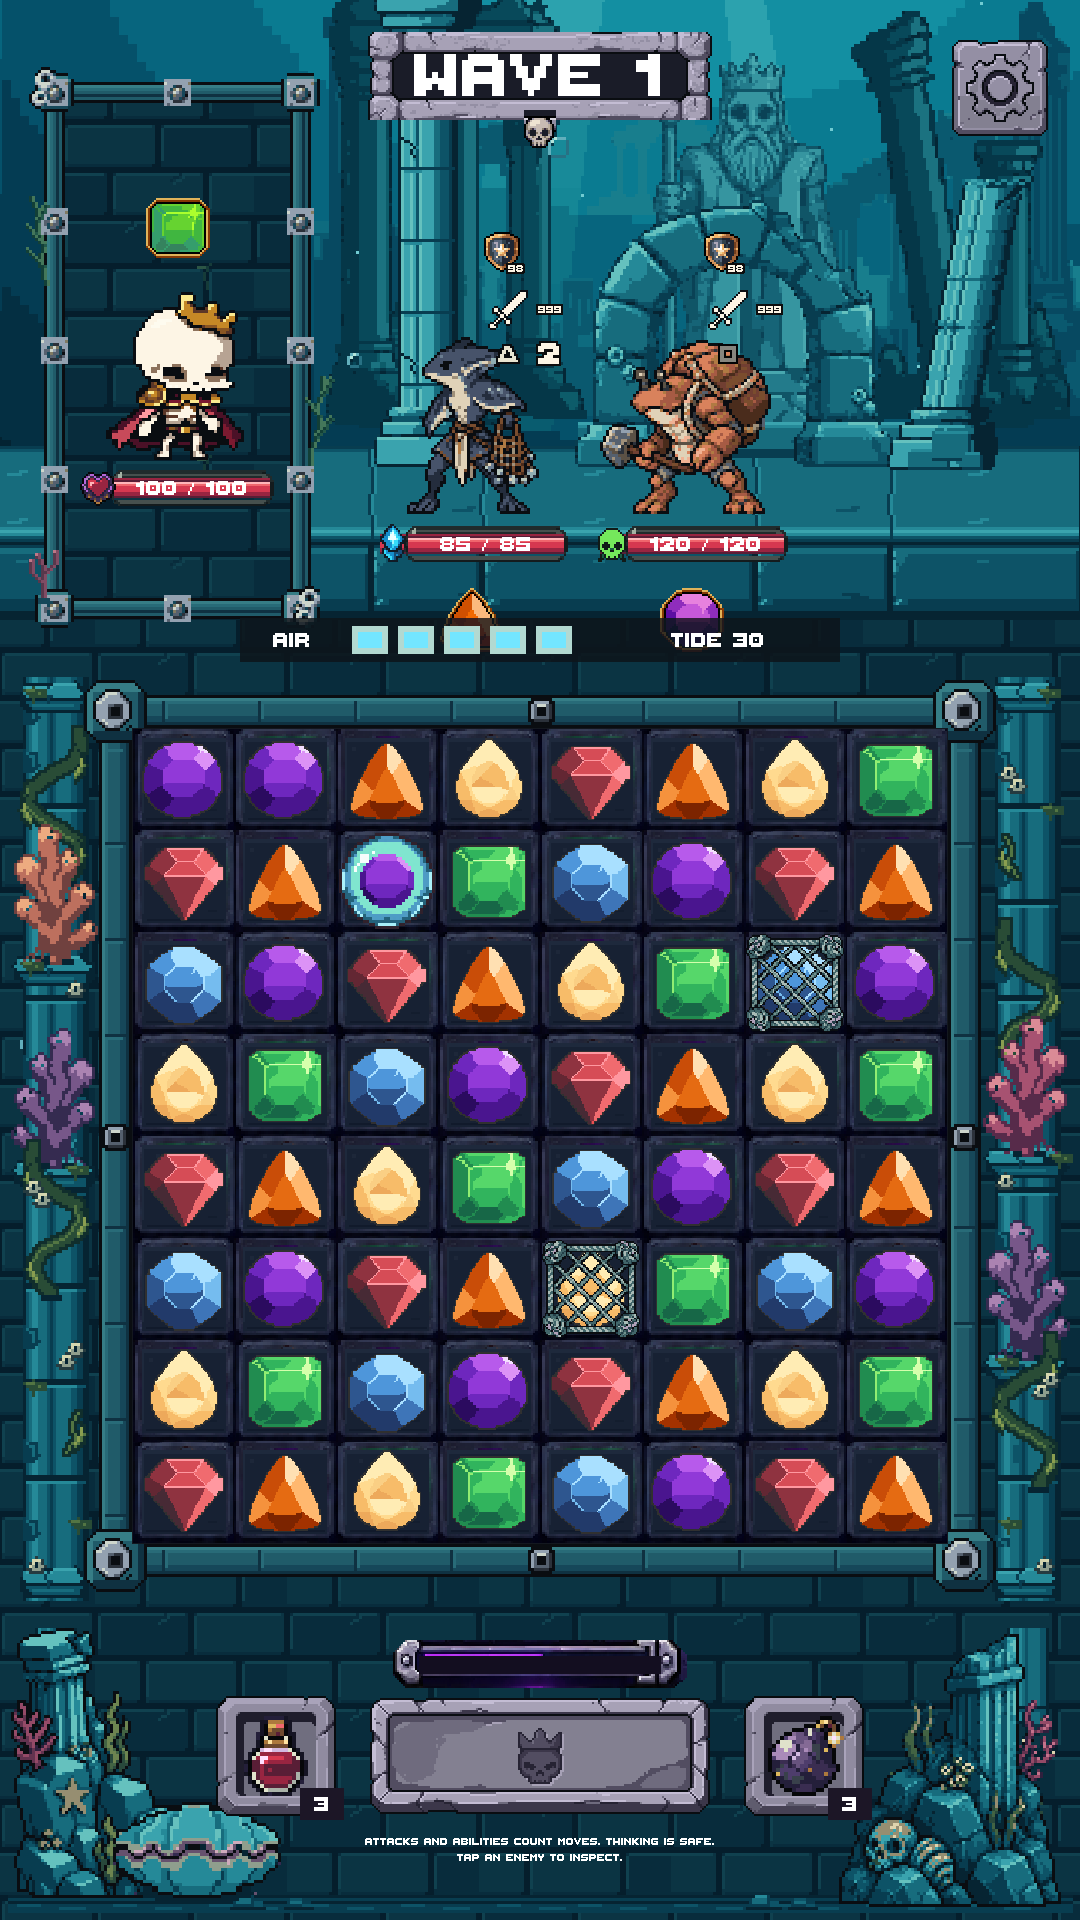
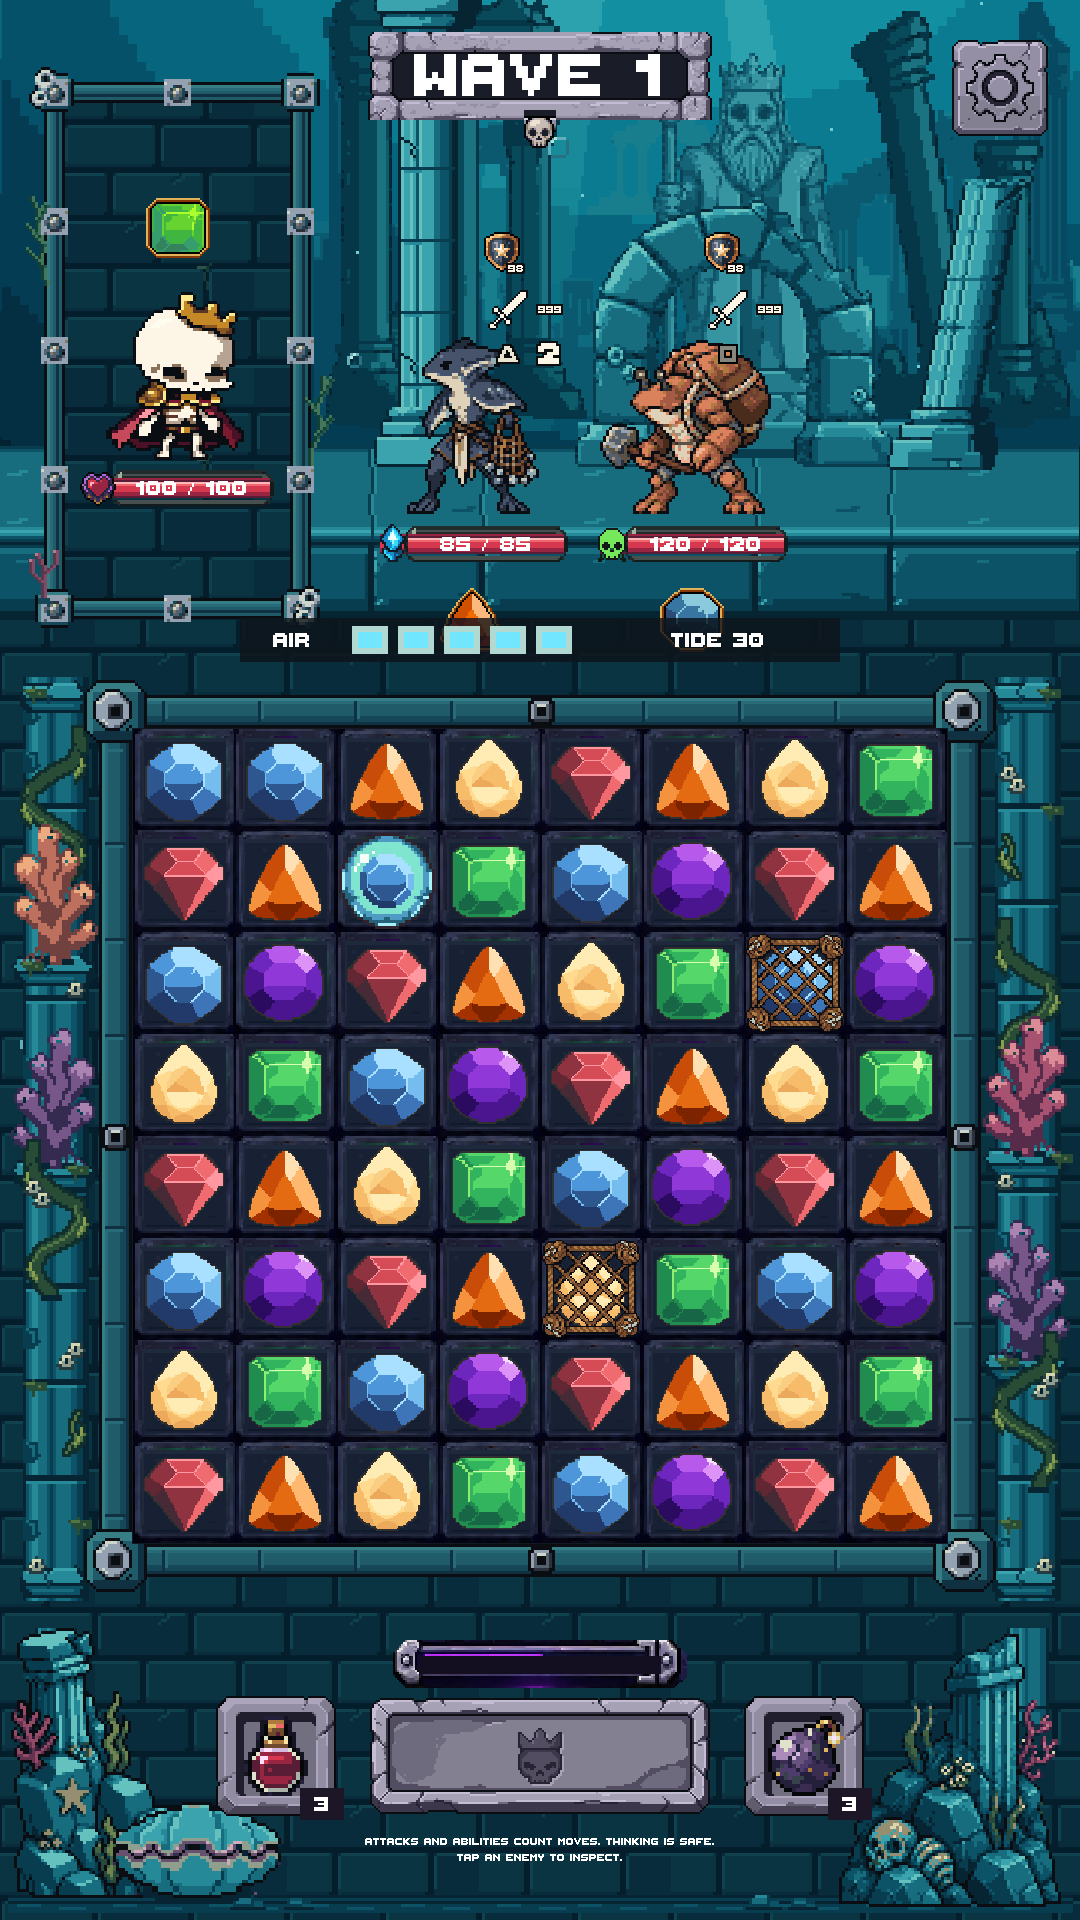
Match Marine Net rope colors to Reef Netweaver

diff --git a/ArtSource/ApprovedEnemyRevisions/FlameAndFullTileNet/Review.html b/ArtSource/ApprovedEnemyRevisions/FlameAndFullTileNet/Review.html
@@ -13,7 +13,7 @@ button,select{padding:9px 14px;background:#2b3950;color:white;border:1px solid #
 @media(max-width:780px){main{padding:16px}.grid{grid-template-columns:1fr}.stage{width:128px;height:128px}}
 </style><main>
 <div class="badge">DUNGEON MATCHER · REVIEW CANDIDATE · NOT MERGED</div>
-<h1>Moving flame. Heavier net.</h1><p>The approved hearth stays intact. The net covers its cell for its entire lifetime.</p>
+<h1>Moving flame. Heavier net.</h1><p>The approved hearth stays intact. The full-cell net now matches the Reef Netweaver's held rope.</p>
 <div class="grid"><section><h2>Hearth Ember — flame only</h2><div class="samples">
 <div class="sample"><div class="stage"><img width="128" height="128" src="../PixelLab/HearthEmber.png"></div><p>Approved still · 4×</p></div>
 <div class="sample"><div class="stage"><img width="128" height="128" src="HearthFlame.gif"></div><p>Animated flame · 4×</p></div>
@@ -21,10 +21,11 @@ button,select{padding:9px 14px;background:#2b3950;color:white;border:1px solid #
 <p>8 native cels · 120 ms per cel · 7 colors · binary transparency.<br>Every stone pixel remains fixed. Pause freezes the flame; Reduced Motion restores the still.</p>
 <a href="HearthFlame.ase">LibreSprite source</a> · <a href="HearthFlame-strip.png">Native frame strip</a></section>
 <section><h2>Marine Net — full cell</h2><div class="samples">
-<div class="sample"><div class="stage"><img width="128" height="128" src="../PixelLab/MarineSnare.png"></div><p>Previous · same cell display size</p></div>
-<div class="sample"><div class="stage"><img width="128" height="128" src="MarineSnare.png"></div><p>Thicker ropes · same cell display size</p></div>
+<div class="sample"><div class="stage"><img width="128" height="128" src="NetRopeRecolor/Before.png"></div><p>Before recolor · 2×</p></div>
+<div class="sample"><div class="stage"><img width="128" height="128" src="MarineSnare.png"></div><p>Matched brown rope · 2×</p></div>
 <div class="sample"><img width="64" height="64" src="MarineSnare.png"><p>Native 64×64</p></div></div>
-<p>6 colors · binary transparency · one-pixel edge clearance. Diamond windows keep the gem visible. No expiry shrink; the existing three-move rule remains unchanged.</p>
+<div class="samples"><img width="128" height="104" src="NetRopeRecolor/ReefNetweaver-reference.png"><p>Reef Netweaver · unchanged native reference.<br>Exact brown rope and pale weight colors sampled from his held net.</p></div>
+<p>5 colors · binary transparency · one-pixel edge clearance. Exact same mesh and alpha mask. Diamond windows keep the gem visible. No expiry shrink; the existing three-move rule remains unchanged.</p>
 <a href="MarineSnare.ase">LibreSprite source</a> · <a href="MarineNet-raw-sheet.png">All raw PixelLab candidates</a></section></div>
 <div class="grid"><section><h2>Actual Unity Game — hearth</h2>
 <button id="play">Pause preview</button><img id="hearth" class="game" src="Preview/hearth-flame-00.png">
@@ -32,7 +33,7 @@ button,select{padding:9px 14px;background:#2b3950;color:white;border:1px solid #
 <section><h2>Actual Unity Game — net</h2><select id="size"><option>1080x1920</option><option>360x640</option><option>1080x2400</option></select>
 <img id="net" class="game" src="Preview/marine-net-full-tile-1080x1920.png">
 <p class="caption">Real Game captures. Full-cell bounds and alignment checked at all three sizes, with three, two and one moves remaining. The 360×640 capture retains the existing Unity Editor reference-resolution warning.</p></section></div>
-<section><h2>Verification and sources</h2><p><strong>Unity compilation and six focused Game checks passed.</strong> PixelLab: <strong>11 generations</strong> for this revision. LibreSprite exports verified against native cels. Unity captures use controlled combat fixtures; no real-device test was performed.</p>
+<section><h2>Verification and sources</h2><p><strong>Unity compilation and six focused Game checks passed for the flame/net implementation.</strong> The palette-only follow-up uses LibreSprite and costs <strong>zero additional generations</strong> (11 for the earlier generation work). Reopened exports verified pixel-for-pixel. Unity captures use controlled combat fixtures; no real-device test was performed.</p>
 <a href="validation.json">Executed checks</a> · <a href="manifest.json">Pixel checks and hashes</a> · <a href="README.md">Production notes</a></section>
 </main><script>
 let playing=true,frame=0;const h=document.querySelector('#hearth');

diff --git a/ArtSource/ApprovedEnemyRevisions/FlameAndFullTileNet/NetRopeRecolor/recolor.js b/ArtSource/ApprovedEnemyRevisions/FlameAndFullTileNet/NetRopeRecolor/recolor.js
@@ -1,0 +1,41 @@
+// Run inside LibreSprite on the preserved Before.png copy. Geometry is locked.
+app.open('ArtSource/ApprovedEnemyRevisions/FlameAndFullTileNet/NetRopeRecolor/Before.png');
+var sprite = app.activeSprite;
+var image = sprite ? sprite.layer(0).cel(0).image : null;
+var pixel = app.pixelColor;
+if (!sprite || !image || Number(sprite.width) !== 64 || Number(sprite.height) !== 64)
+    throw new Error('Expected the 64x64 Marine Net working copy.');
+var filename = sprite.filename.replace(/\\/g, '/');
+if (filename.indexOf('/NetRopeRecolor/Before.png') < 0)
+    throw new Error('Refusing to edit any document other than the net working copy.');
+var folder = filename.substring(0, filename.lastIndexOf('/') + 1);
+// Exact colors sampled from the current Reef Netweaver held net:
+// deep brown rope, brown rope, warm rope light, pale attached weights.
+var colors = {
+    '10,13,17': [10,13,17],
+    '36,63,72': [74,44,28],
+    '66,102,107': [122,77,46],
+    '113,145,142': [122,77,46],
+    '169,187,182': [176,122,67],
+    '176,160,184': [184,200,190]
+};
+for (var y = 0; y < image.height; y++) {
+    for (var x = 0; x < image.width; x++) {
+        var c = image.getPixel(x, y);
+        if (pixel.rgbaA(c) === 0) continue;
+        if (pixel.rgbaA(c) !== 255) throw new Error('Unexpected nonbinary alpha.');
+        var key = pixel.rgbaR(c)+','+pixel.rgbaG(c)+','+pixel.rgbaB(c);
+        var mapped = colors[key];
+        if (!mapped) throw new Error('Unexpected source color: '+key);
+        image.putPixel(x,y,pixel.rgba(mapped[0],mapped[1],mapped[2],255));
+    }
+}
+sprite.commit();
+sprite.saveAs(folder+'MarineSnare.ase',true);
+sprite.saveAs(folder+'MarineSnare.png',true);
+app.activeDocument.close();
+app.open(folder+'MarineSnare.ase');
+app.activeSprite.saveAs(folder+'Roundtrip.png',true);
+app.activeDocument.close();
+console.log('NET_ROPE_RECOLOR_COMPLETE');
+app.command.Exit();

diff --git a/ArtSource/ApprovedEnemyRevisions/FlameAndFullTileNet/review.py b/ArtSource/ApprovedEnemyRevisions/FlameAndFullTileNet/review.py
@@ -33,7 +33,7 @@ button,select{padding:9px 14px;background:#2b3950;color:white;border:1px solid #
 @media(max-width:780px){main{padding:16px}.grid{grid-template-columns:1fr}.stage{width:128px;height:128px}}
 </style><main>
 <div class="badge">DUNGEON MATCHER · REVIEW CANDIDATE · NOT MERGED</div>
-<h1>Moving flame. Heavier net.</h1><p>The approved hearth stays intact. The net covers its cell for its entire lifetime.</p>
+<h1>Moving flame. Heavier net.</h1><p>The approved hearth stays intact. The full-cell net now matches the Reef Netweaver's held rope.</p>
 <div class="grid"><section><h2>Hearth Ember — flame only</h2><div class="samples">
 <div class="sample"><div class="stage"><img width="128" height="128" src="../PixelLab/HearthEmber.png"></div><p>Approved still · 4×</p></div>
 <div class="sample"><div class="stage"><img width="128" height="128" src="HearthFlame.gif"></div><p>Animated flame · 4×</p></div>
@@ -41,10 +41,11 @@ button,select{padding:9px 14px;background:#2b3950;color:white;border:1px solid #
 <p>8 native cels · 120 ms per cel · 7 colors · binary transparency.<br>Every stone pixel remains fixed. Pause freezes the flame; Reduced Motion restores the still.</p>
 <a href="HearthFlame.ase">LibreSprite source</a> · <a href="HearthFlame-strip.png">Native frame strip</a></section>
 <section><h2>Marine Net — full cell</h2><div class="samples">
-<div class="sample"><div class="stage"><img width="128" height="128" src="../PixelLab/MarineSnare.png"></div><p>Previous · same cell display size</p></div>
-<div class="sample"><div class="stage"><img width="128" height="128" src="MarineSnare.png"></div><p>Thicker ropes · same cell display size</p></div>
+<div class="sample"><div class="stage"><img width="128" height="128" src="NetRopeRecolor/Before.png"></div><p>Before recolor · 2×</p></div>
+<div class="sample"><div class="stage"><img width="128" height="128" src="MarineSnare.png"></div><p>Matched brown rope · 2×</p></div>
 <div class="sample"><img width="64" height="64" src="MarineSnare.png"><p>Native 64×64</p></div></div>
-<p>6 colors · binary transparency · one-pixel edge clearance. Diamond windows keep the gem visible. No expiry shrink; the existing three-move rule remains unchanged.</p>
+<div class="samples"><img width="128" height="104" src="NetRopeRecolor/ReefNetweaver-reference.png"><p>Reef Netweaver · unchanged native reference.<br>Exact brown rope and pale weight colors sampled from his held net.</p></div>
+<p>5 colors · binary transparency · one-pixel edge clearance. Exact same mesh and alpha mask. Diamond windows keep the gem visible. No expiry shrink; the existing three-move rule remains unchanged.</p>
 <a href="MarineSnare.ase">LibreSprite source</a> · <a href="MarineNet-raw-sheet.png">All raw PixelLab candidates</a></section></div>
 <div class="grid"><section><h2>Actual Unity Game — hearth</h2>
 <button id="play">Pause preview</button><img id="hearth" class="game" src="Preview/hearth-flame-00.png">
@@ -52,7 +53,7 @@ button,select{padding:9px 14px;background:#2b3950;color:white;border:1px solid #
 <section><h2>Actual Unity Game — net</h2><select id="size"><option>1080x1920</option><option>360x640</option><option>1080x2400</option></select>
 <img id="net" class="game" src="Preview/marine-net-full-tile-1080x1920.png">
 <p class="caption">Real Game captures. Full-cell bounds and alignment checked at all three sizes, with three, two and one moves remaining. The 360×640 capture retains the existing Unity Editor reference-resolution warning.</p></section></div>
-<section><h2>Verification and sources</h2><p><strong>Unity compilation and six focused Game checks passed.</strong> PixelLab: <strong>11 generations</strong> for this revision. LibreSprite exports verified against native cels. Unity captures use controlled combat fixtures; no real-device test was performed.</p>
+<section><h2>Verification and sources</h2><p><strong>Unity compilation and six focused Game checks passed for the flame/net implementation.</strong> The palette-only follow-up uses LibreSprite and costs <strong>zero additional generations</strong> (11 for the earlier generation work). Reopened exports verified pixel-for-pixel. Unity captures use controlled combat fixtures; no real-device test was performed.</p>
 <a href="validation.json">Executed checks</a> · <a href="manifest.json">Pixel checks and hashes</a> · <a href="README.md">Production notes</a></section>
 </main><script>
 let playing=true,frame=0;const h=document.querySelector('#hearth');

diff --git a/ArtSource/ApprovedEnemyRevisions/FlameAndFullTileNet/NetRopeRecolor/run.py b/ArtSource/ApprovedEnemyRevisions/FlameAndFullTileNet/NetRopeRecolor/run.py
@@ -1,0 +1,41 @@
+"""Execute the native LibreSprite recolor, verify exact pixels, then bind the copy."""
+from pathlib import Path
+from PIL import Image
+import hashlib,json,shutil,subprocess,sys
+HERE=Path(__file__).resolve().parent
+ROOT=HERE.parents[3]
+subprocess.run([sys.executable,str(HERE/'prepare.py')],cwd=ROOT,check=True)
+startup=subprocess.STARTUPINFO();startup.dwFlags|=subprocess.STARTF_USESHOWWINDOW;startup.wShowWindow=0
+run=subprocess.run(['C:/Users/USER/Downloads/libresprite-development-windows-x86_64/libresprite.exe',
+                    '--script',str(HERE/'recolor.js')],cwd=ROOT,startupinfo=startup,
+                   stdout=subprocess.PIPE,stderr=subprocess.STDOUT,timeout=60)
+(HERE/'LibreSprite.log').write_bytes(run.stdout)
+assert run.returncode==0 and b'NET_ROPE_RECOLOR_COMPLETE' in run.stdout,run.stdout.decode(errors='replace')
+before=Image.open(HERE/'Before.png').convert('RGBA')
+after=Image.open(HERE/'MarineSnare.png').convert('RGBA')
+roundtrip=Image.open(HERE/'Roundtrip.png').convert('RGBA')
+mapping={(10,13,17):(10,13,17),(36,63,72):(74,44,28),(66,102,107):(122,77,46),
+         (113,145,142):(122,77,46),(169,187,182):(176,122,67),(176,160,184):(184,200,190)}
+assert before.size==after.size==roundtrip.size==(64,64)
+assert before.getchannel('A').tobytes()==after.getchannel('A').tobytes()
+assert after.tobytes()==roundtrip.tobytes()
+for old,new in zip(before.get_flattened_data(),after.get_flattened_data()):
+    assert old==new if old[3]==0 else new==(*mapping[old[:3]],255)
+reference=json.loads((HERE/'reference.json').read_text())
+assert hashlib.sha256((ROOT/reference['source']).read_bytes()).hexdigest()==reference['sha256']
+runtime=ROOT/'Assets/_Game/Resources/Combat/ApprovedRevisions/MarineSnare.png'
+for target in [runtime,HERE.parent/'MarineSnare.png']:shutil.copy2(HERE/'MarineSnare.png',target)
+shutil.copy2(HERE/'MarineSnare.ase',HERE.parent/'MarineSnare.ase')
+manifest_path=HERE.parent/'manifest.json';manifest=json.loads(manifest_path.read_text())
+manifest['net']['opaque_colors']=len({p for p in after.get_flattened_data() if p[3]})
+manifest['net']['recolor']={'reference':'NetRopeRecolor/reference.json','palette_map':{
+    '#%02X%02X%02X'%a:'#%02X%02X%02X'%b for a,b in mapping.items()},'mask_exact':True,
+    'all_pixel_changes_match_map':True,'libresprite_reopen_exact':True,'generations':0}
+manifest['files']={p.relative_to(HERE.parent).as_posix():hashlib.sha256(p.read_bytes()).hexdigest()
+                   for p in sorted(HERE.parent.rglob('*.png')) if 'Preview' not in p.parts}
+manifest_path.write_text(json.dumps(manifest,indent=2)+'\n')
+(HERE/'checks.json').write_text(json.dumps({'canvas':[64,64],'opaque_colors':5,'binary_alpha':True,
+    'mask_exact':True,'geometry_exact':True,'mapped_pixels_exact':True,'libresprite_reopen_exact':True,
+    'enemy_reference_unchanged':True,'before_sha256':hashlib.sha256((HERE/'Before.png').read_bytes()).hexdigest(),
+    'after_sha256':hashlib.sha256((HERE/'MarineSnare.png').read_bytes()).hexdigest()},indent=2)+'\n')
+print('LibreSprite recolor verified: 64x64, 5 sampled colors, exact alpha/geometry and native reopen. No credits spent.')

diff --git a/ArtSource/ApprovedEnemyRevisions/FlameAndFullTileNet/NetRopeRecolor/prepare.py b/ArtSource/ApprovedEnemyRevisions/FlameAndFullTileNet/NetRopeRecolor/prepare.py
@@ -1,0 +1,28 @@
+"""Preserve the source and sample authoritative pixels; LibreSprite does the edit."""
+from pathlib import Path
+from PIL import Image
+import hashlib,json,shutil
+HERE=Path(__file__).resolve().parent
+ROOT=HERE.parents[3]
+source=ROOT/'Assets/_Game/Art/DrownedCourt/reef_netweaver.png'
+before=HERE/'Before.png'
+if not before.exists():shutil.copy2(HERE.parent/'MarineSnare.png',before)
+if not (HERE/'Before.ase').exists():shutil.copy2(HERE.parent/'MarineSnare.ase',HERE/'Before.ase')
+shutil.copy2(source,HERE/'ReefNetweaver-reference.png')
+im=Image.open(source).convert('RGBA')
+roi=im.crop((70,60,87,88))
+colors={(10,13,17),(74,44,28),(122,77,46),(176,122,67),(184,200,190)}
+assert colors<={c[:3] for c in roi.get_flattened_data() if c[3]}
+reference={
+    'enemy_id':'reef_netweaver','display_name':'Reef Netweaver',
+    'definition':'Assets/_Game/Data/Enemies/DrownedCourt/reef_netweaver.asset',
+    'special_ability_kind':'ThornySnare = 24',
+    'source':source.relative_to(ROOT).as_posix(),
+    'sha256':hashlib.sha256(source.read_bytes()).hexdigest(),
+    'guid':'147a8afb737eb0648b696771460020bc','file_id':21300000,
+    'canvas':list(im.size),'held_net_sampling_rect':[70,60,87,88],
+    'colors':{','.join(map(str,c)):next([x,y] for y in range(60,88) for x in range(70,87) if im.getpixel((x,y))[:3]==c and im.getpixel((x,y))[3]) for c in sorted(colors)},
+    'pixel_lab_generations':0,
+    'method':'Exact RGB replacement in LibreSprite via recolor.js; source geometry and alpha locked.'}
+(HERE/'reference.json').write_text(json.dumps(reference,indent=2)+'\n')
+print('Prepared a separate net copy and verified all five colors occur in the held net.')

diff --git a/ArtSource/ApprovedEnemyRevisions/FlameAndFullTileNet/build.py b/ArtSource/ApprovedEnemyRevisions/FlameAndFullTileNet/build.py
@@ -1,7 +1,7 @@
 """Native PixelLab flame cleanup, locked-stone animation, and full-cell net export."""
 from pathlib import Path
 from PIL import Image, ImageDraw
-import hashlib,json,re,subprocess,uuid
+import hashlib,json,re,subprocess,uuid,sys
 
 HERE=Path(__file__).resolve().parent
 ROOT=HERE.parents[2]
@@ -93,3 +93,5 @@ manifest={'guide_version':'1.17.2','guide_sha256':hashlib.sha256((ROOT/'Docs/Art
           'files':{p.relative_to(HERE).as_posix():hashlib.sha256(p.read_bytes()).hexdigest() for p in sorted(HERE.rglob('*.png')) if 'Preview' not in p.parts}}
 (HERE/'manifest.json').write_text(json.dumps(manifest,indent=2)+'\n')
 print('8 exact 32px flame cels, locked stones, 960ms loop; 64px full-tile net, no resampling. LibreSprite verified.')
+if (HERE/'NetRopeRecolor/run.py').exists():
+    subprocess.run([sys.executable,str(HERE/'NetRopeRecolor/run.py')],cwd=ROOT,check=True)

diff --git a/ArtSource/ApprovedEnemyRevisions/FlameAndFullTileNet/README.md b/ArtSource/ApprovedEnemyRevisions/FlameAndFullTileNet/README.md
@@ -14,7 +14,7 @@ not phone recordings or claims of device testing. This revision is not merged.
   binary alpha. Every original stone pixel and every pixel outside the flame
   edit mask is exact. Cel zero equals the approved still. No scaling, drift,
   palette expansion or detached sparks. The original still remains the fallback.
-- Net: native 64x64, six opaque colors, binary alpha, knotted heavy ropes with
+- Net: native 64x64, five opaque colors after the requested recolor, binary alpha, knotted heavy ropes with
   transparent diamond windows. Occupied bounds are `[1,1,63,63)` for a one-pixel
   edge clearance. Its full sprite rectangle matches the cell; the visible ropes
   reach within one native pixel of each edge. It no longer shrinks toward expiry.
@@ -44,3 +44,22 @@ its existing GUID and production theme reference. Other sprites, gems, scenery,
 UI, gameplay rules and the main checkout are untouched.
 
 Executed test details and limitations are in `validation.json`.
+
+## Held-net color match
+
+The user identified the Reef Netweaver and requested the same colors as his held
+net. His serialized enemy definition binds `ThornySnare` (24), which dispatches
+the existing `TryApplyAquaticSnares` operation. The production still is the exact
+palette authority for this scoped recolor; his own artwork remains unchanged.
+
+`NetRopeRecolor/recolor.js` replaces colors inside LibreSprite, then saves and
+reopens the native ASE document for an exact PNG round-trip. The cool rope ramp
+becomes the held net's `#4A2C1C`, `#7A4D2E`, `#B07A43`; the small weight accents
+use `#B8C8BE`. Outline `#0A0D11`, all coordinates, rope thickness, knots and alpha
+stay exact. Two redundant cool midtones share the sampled brown base.
+
+The prior artwork is preserved as `NetRopeRecolor/Before.png` and `Before.ase`.
+Reference path/hash, sampled coordinates and checks are recorded beside them.
+Run `NetRopeRecolor/run.py` to repeat the native edit and verify/bind its exports;
+`build.py` also invokes that final recolor after rebuilding the initial sources.
+This color-only follow-up spends **zero PixelLab generations**.

diff --git a/Docs/PROJECT_STATE.md b/Docs/PROJECT_STATE.md
@@ -27,6 +27,9 @@ plus thicker Marine Net ropes covering the entire tile. The focused follow-up
 on `codex/ember-flame-marine-net` preserves every stone pixel and the approved
 still, adds eight 120 ms flame cels, and replaces the thin net with a native
 64x64 square mesh. Net coverage stays constant until its existing expiry.
+The requested LibreSprite palette follow-up matches the brown rope and pale
+weights in the current Reef Netweaver's hand, with exact mesh/alpha preservation
+and zero additional generation spending.
 PixelLab sources, LibreSprite documents, validation and actual Game previews
 are in `ArtSource/ApprovedEnemyRevisions/FlameAndFullTileNet` (11 generations).
 Gameplay rules and the production main checkout remain unchanged by this
